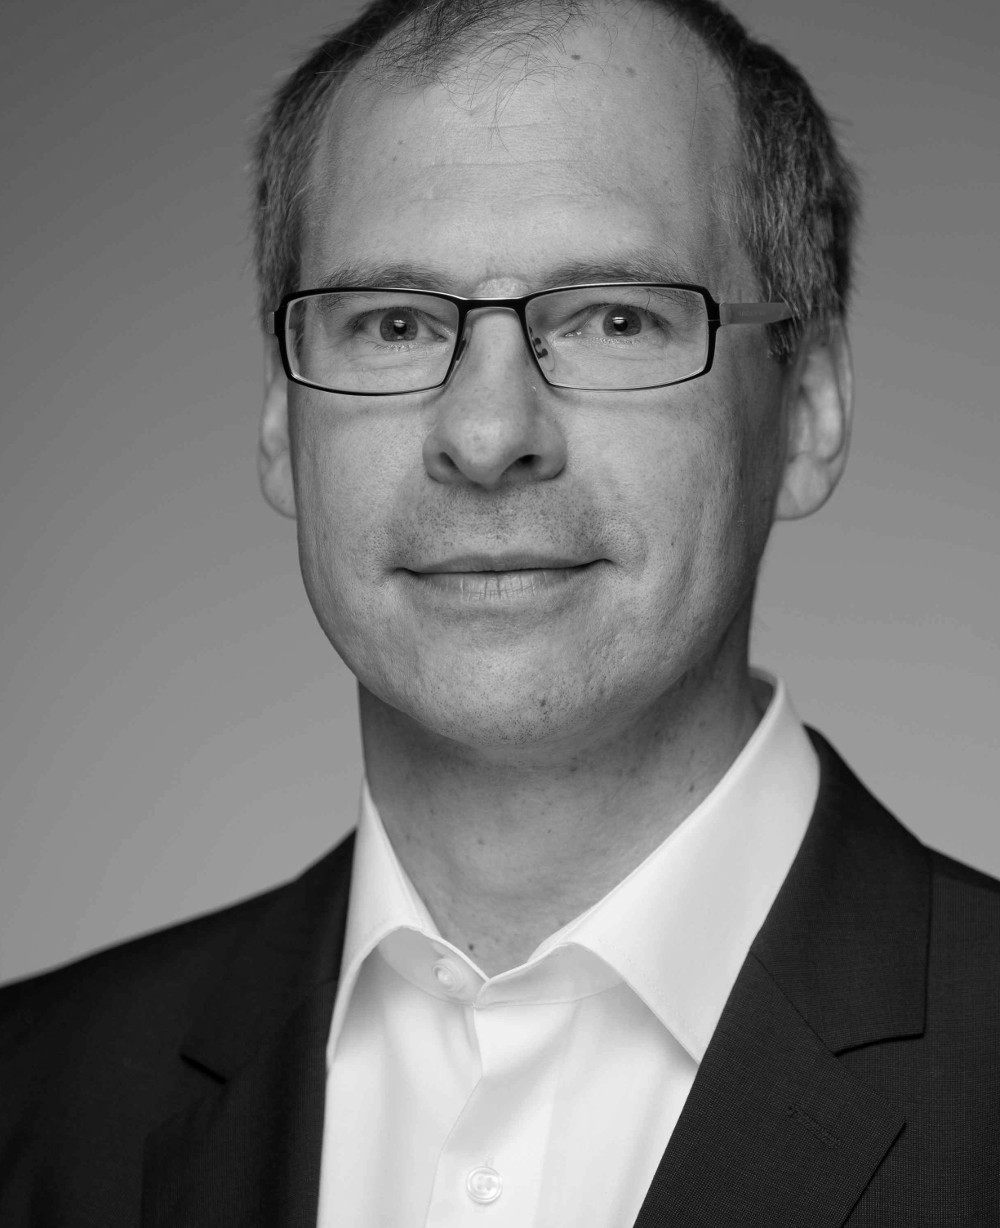
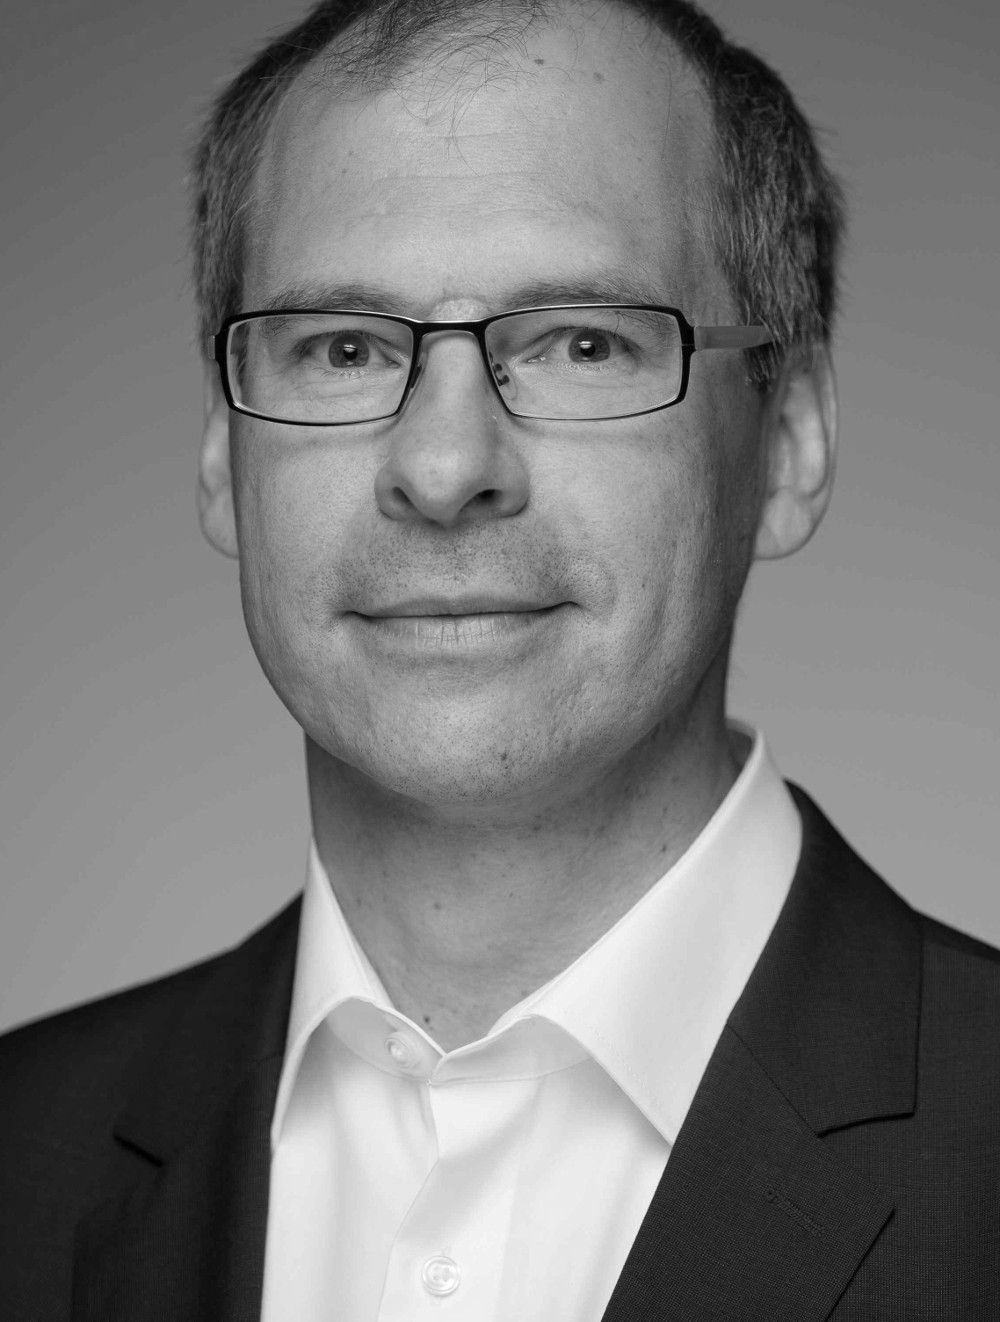
Bilder und Positionierung aktualisiert (#116)
Das Bild von Schwarz hatte das falsche Format.
Wie in #110 beschrieben, können die Prodekan-Fotos nur sehr unschön
angezeigt werden, weil sie für Studierende doch eher irrelevant sind
werden sie ausgenommen

diff --git a/ansprechpartner.tex b/ansprechpartner.tex
@@ -18,7 +18,7 @@ Nicht nur am Anfang eures Studiums, sondern auch mitten drin, können kleinere u
     \fi
 
     \ifdefined\dekanmathefoto
-    \proffoto{\dekanmathefoto}{\dekanmathelang\\[-1ex]{\scriptsize Dekan Mathe}}
+	\proffoto{\dekanmathefoto}{\dekanmathelang\\[-1ex]{\scriptsize Dekan Mathe \& Info}}
     \fi
 
     \ifdefined\studiendekaninformatikfoto
@@ -29,16 +29,22 @@ Nicht nur am Anfang eures Studiums, sondern auch mitten drin, können kleinere u
     \proffoto{\studiendekanphysikfoto}{\studiendekanphysik\\[-1ex]{\scriptsize Studiendekan Physik}}
     \fi
 
-    \vspace*{1.8cm}
-
     \ifdefined\studiendekanmathefoto
     \proffoto{\studiendekanmathefoto}{\studiendekanmathe\\[-1ex]{\scriptsize Studiendekan Mathe}}
     \fi
-
-    \ifdefined\prodekanphyikfoto
-    \proffoto{\prodekanphyikfoto}{\prodekanphysik\\[-1ex]{\scriptsize Prodekan Physik}}
+\iffalse
+    \ifdefined\prodekanmathefoto
+	\proffoto{\prodekanmathefoto}{\prodekanmathe\\[-1ex]{\scriptsize Prodekan Mathe \& Info}}
     \fi
 
+    \ifdefined\prodekanphysikfotoA
+    \proffoto{\prodekanphysikfotoA}{\prodekanphysikA\\[-1ex]{\scriptsize Prodekan Physik}}
+    \fi
+
+    \ifdefined\prodekanphysikfotoB
+    \proffoto{\prodekanphysikfotoB}{\prodekanphysikB\\[-1ex]{\scriptsize Prodekan Physik}}
+    \fi
+\fi
     % Rest weiter unten weil die Physik zwei Prodekane hat
     % und damit nicht mehr alles in die Spalten passt
 }
@@ -71,6 +77,7 @@ Nicht nur am Anfang eures Studiums, sondern auch mitten drin, können kleinere u
 
 \relax
 
+\iffalse
 % Hinweis zu den Abständen:
 % die 1.3cm oben sind von Hand abgemessen, sodass der Abstand zwischen
 % den Fotos in der Sidebar hier fortgesetzt wird
@@ -85,8 +92,8 @@ Nicht nur am Anfang eures Studiums, sondern auch mitten drin, können kleinere u
 \iftrue
 \checkoddpage
 \ifoddpage
-    %\hspace*{-1.695cm}
-    \hspace*{-1.15cm}
+    \hspace*{-1.695cm}
+    %\hspace*{-1.15cm}
 \else
     \hspace*{-5.52cm}
 \fi
@@ -115,8 +122,8 @@ Nicht nur am Anfang eures Studiums, sondern auch mitten drin, können kleinere u
     \hspace*{-1.695cm}
     %\hspace*{-1.15cm}
 \else
-    %\hspace*{-5.52cm}
-    \hspace*{-4.55cm}
+    \hspace*{-5.52cm}
+    %\hspace*{-4.55cm}
 \fi
 \begin{minipage}{1.51\textwidth}
 %\hfill
@@ -145,7 +152,7 @@ Nicht nur am Anfang eures Studiums, sondern auch mitten drin, können kleinere u
 }
 \end{minipage}
 \fi
-
+\fi
 % Wenn noch Platz ist, z.B. weil Fotos fehlen oder die Physik
 % nur noch einen Prodekan hat, kann man das als Lückenfüller nehmen:
 
